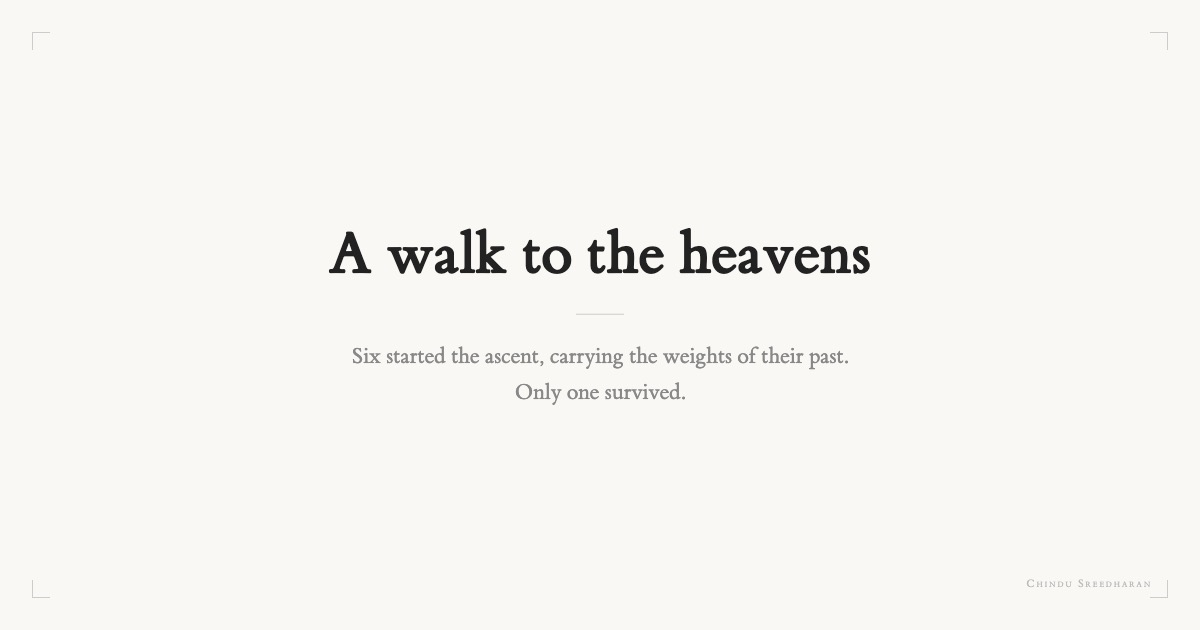
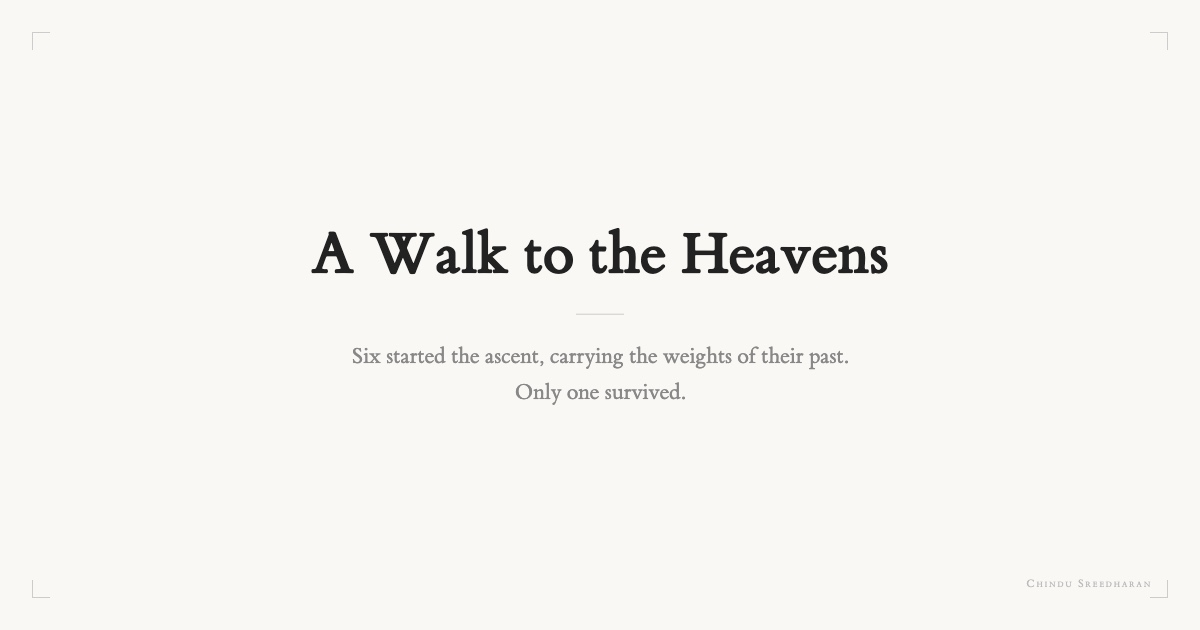
Fix: Title Case headline for A Walk to the Heavens
Its <title> tag and cover image read "A walk to the heavens" in
sentence case while its h1 and both social cards read "A Walk to the
Heavens". Brought the two strays into line with the rest of the site.

Cover re-rendered from assets/cover.html; nothing in the image changed
but the casing.

Changed region(s): [[0.2467, 0.3619, 0.74, 0.4524]]

diff --git a/walk-to-the-heavens/index.html b/walk-to-the-heavens/index.html
@@ -1,7 +1,7 @@
 <head>
   <meta charset="UTF-8">
   <meta name="viewport" content="width=device-width, initial-scale=1">
-  <title>A walk to the heavens — Chindu Sreedharan</title>
+  <title>A Walk to the Heavens — Chindu Sreedharan</title>
 
   <meta property="og:title" content="A Walk to the Heavens" />
   <meta property="og:url" content="https://chindusree.github.io/walk-to-the-heavens/" />

diff --git a/walk-to-the-heavens/assets/cover.html b/walk-to-the-heavens/assets/cover.html
@@ -55,7 +55,7 @@ body {
   <div class="corner bl"></div>
   <div class="corner br"></div>
   <div class="content">
-    <div class="title">A walk to the heavens</div>
+    <div class="title">A Walk to the Heavens</div>
     <div class="rule"></div>
     <div class="standfirst">Six started the ascent, carrying the weights of their past.<br>Only one survived.</div>
   </div>
